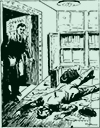
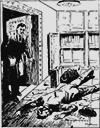
img updates #3

diff --git a/index.html b/index.html
@@ -305,7 +305,7 @@
         <a href="http://flaturtha.github.io/aml/pickyourstory/dotp/index.html"><img src="http://flaturtha.github.io/aml/img/pigeon_thumb.jpg" alt="">Daughter of the Pigeon</a>
         <a href="http://flaturtha.github.io/aml/pickyourstory/blackshadows/index.html"><img src="http://flaturtha.github.io/aml/img/blackshadows_thumb.jpg" alt="">Black Shadows</a>
         <a href="http://flaturtha.github.io/aml/pickyourstory/brandofcain/index.html"><img src="http://flaturtha.github.io/aml/img/brandofcain_thumb.jpg" alt="">The Brand of Cain</a>
-        <a href="http://flaturtha.github.io/aml/pickyourstory/plannedbythestars/index.html"><img src="http://flaturtha.github.io/aml/img/fortunteller_thumb.jpg" alt="">Planned By the Stars</a>
+        <a href="http://flaturtha.github.io/aml/pickyourstory/plannedbythestars/index.html"><img src="http://flaturtha.github.io/aml/img/fortuneteller_thumb.jpg" alt="">Planned By the Stars</a>
         <a href="http://flaturtha.github.io/aml/pickyourstory/m7/index.html"><img src="http://flaturtha.github.io/aml/img/M7_thumb.jpg" alt="">The Man Who Was Seven</a>
       </nav>
 
